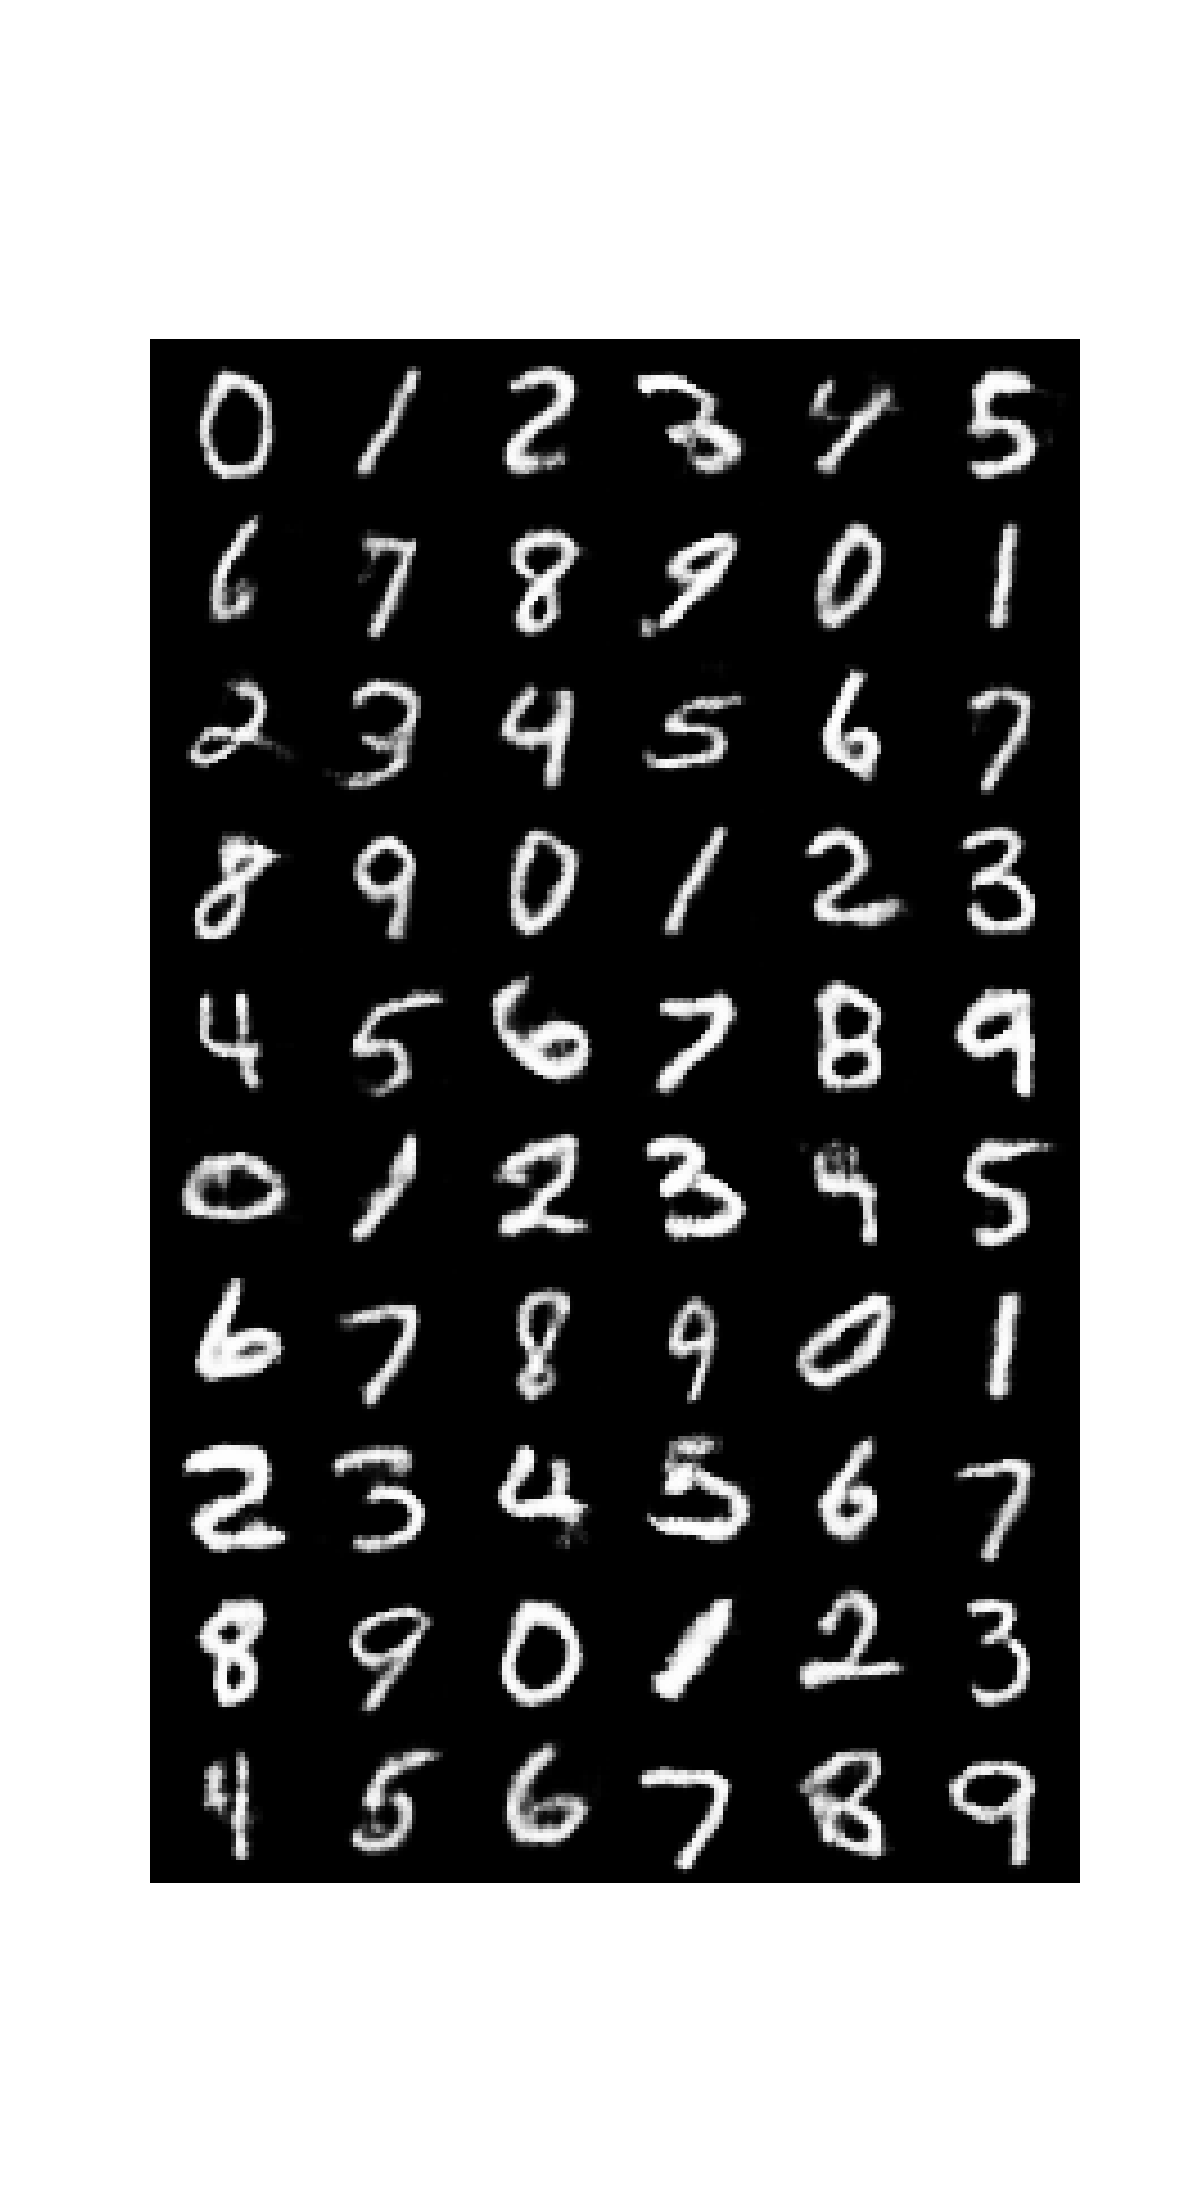
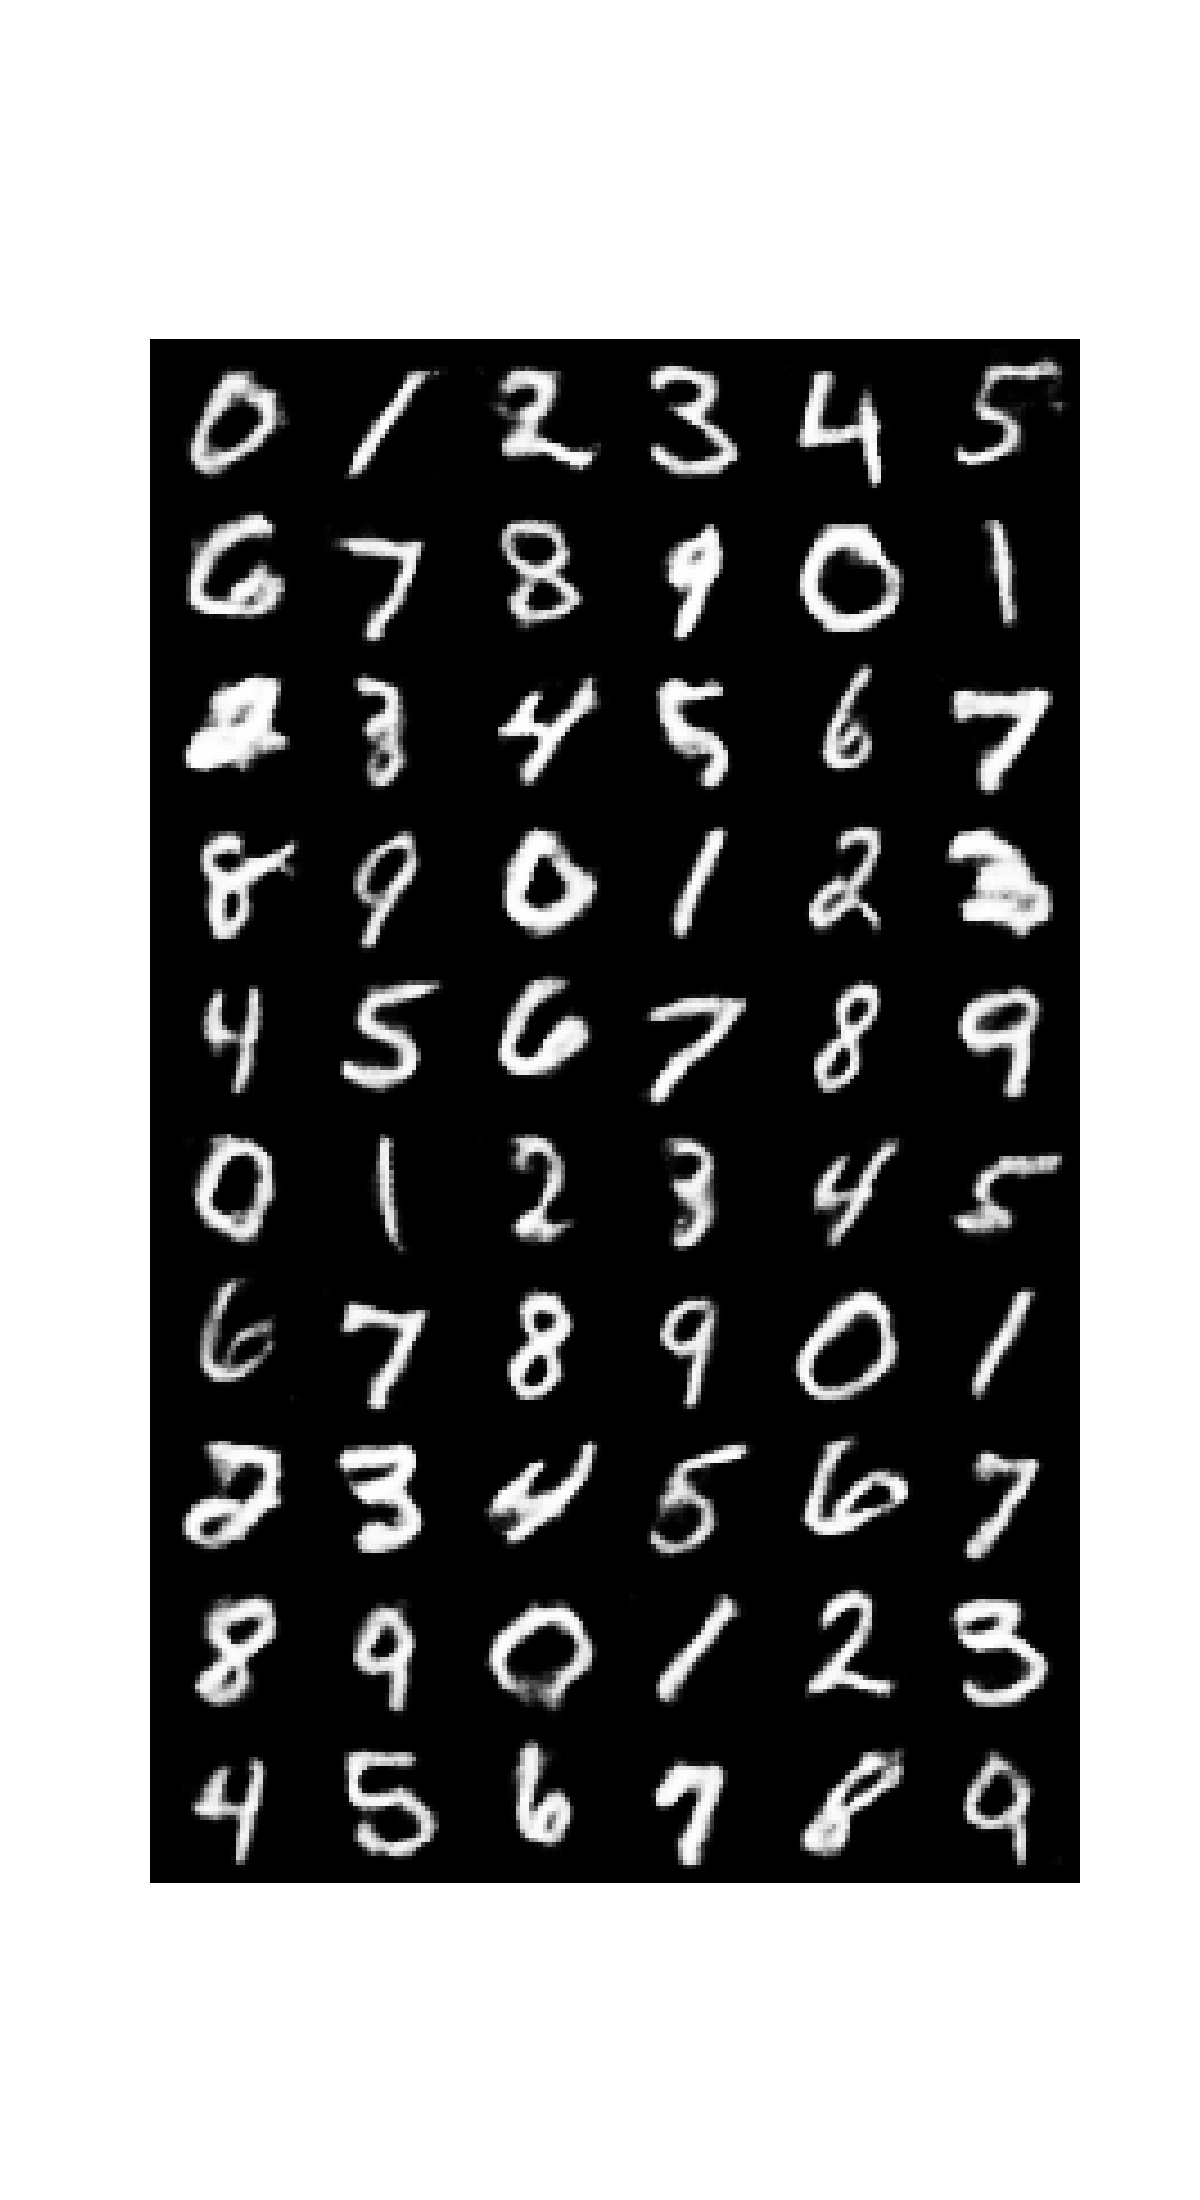
Observers, that saves the losses and epochs so far

diff --git a/training/trainer.py b/training/trainer.py
@@ -1,11 +1,23 @@
+import torch
 from abc import ABC, abstractmethod
 from tqdm.auto import tqdm
+
 from architectures.init_weights import weights_init
-import torch
+from organization.file_system_organizer import FileOrganizer
+from observer.observer_save import ModelSaver
 
 
 class GANTrainer(ABC):
-    def __init__(self, gen, disc, data_loader, loss_fn, optim_gen_strat, optim_disc_strat,latent_dim):
+    def __init__(self, 
+                 gen,
+                 disc, 
+                 data_loader, 
+                 loss_fn, 
+                 optim_gen_strat, 
+                 optim_disc_strat,
+                 latent_dim : int,
+                 save_path : str,
+                 filename : str):
         """Abstract class for Training procedure of gan
 
         Args:
@@ -24,8 +36,15 @@ class GANTrainer(ABC):
         self.optim_gen = optim_gen_strat.build_optim(self.gen)
         self.optim_disc = optim_disc_strat.build_optim(self.disc)
         self.latent_dim = latent_dim
-
+        #where the data is initilized
+        self.save_path = save_path
+        #observers for further functionality
+        self.observers = []
+        #initilaize the model whehter normal distributed or with loading a filename
+        self.filename = filename
+        #filename comes from search from organizer and the filesystem
         self.init_models()
+        self.init_project()
         
     @abstractmethod
     def train_disc(self):
@@ -49,9 +68,17 @@ class GANTrainer(ABC):
         for epoch in tqdm(range(epochs)):
             for batch in self.data_loader:
                 d_loss, g_loss = self.train_step(batch)
-
+            #updating the info dict with each information that is saved from here now 
+            info = {"epoch":epoch,"trainer":self,"loss_d":d_loss,"loss_g":g_loss}
+            self.notify(info)
             print(f"Epoch {epoch}: D={d_loss:.4f} | G={g_loss:.4f}")
         return self.gen, self.disc
+
+    def init_project(self):
+        file = FileOrganizer(filename=self.filename,
+                             path=self.save_path)
+        #creates a full build for a new project
+        file.create_dir()
 
     def init_models(self,**filenames):
         if filenames:
@@ -60,5 +87,17 @@ class GANTrainer(ABC):
         else:
             self.gen.apply(weights_init)
             self.disc.apply(weights_init)
-                
+    
+    def attach(self,observer):
+        #attach the observer to the Trainer 
+        self.observers.append(observer)
+        
+    def detach(self,observer):
+        self.observers.remove(observer)
+        
+    def notify(self, 
+               info: dict):
+        for observer in self.observers:
+            #transfer self because it is the trainer instance
+            observer.update(info)
         

diff --git a/Organization/file_system_organizer.py b/Organization/file_system_organizer.py
@@ -1,6 +1,55 @@
 
+#each prject should become a own project directory
+#fake folder for fake images, that are saved to compute e.g. FID
+#folder with a lot of csv that contains losses metrics # this is done by another class
+#this class ohnly shoult manage the file ordering and not use it.
+#they should check if it is allready existing
+#save regulary images of epochs and losses and validation metrics in csv files
+#that another class that plots can access this data 
+#saving and loading. In case a project allready exists, it should ask, if the project should be loaded
 
+import os
 
 class FileOrganizer():
-    def __init__(self):
-        pass
+    def __init__(self,
+                 filename: str,
+                 path: str):
+        self.filename = filename
+        self.path = path
+    
+    def create_dir(self):
+        """Creates an Directory withhin a given filename and path
+        """
+        path = os.path.join(self.path,self.filename)
+        os.makedirs(path,exist_ok=True)
+        #create the folders in the dir
+        self.create_all_needed_folders(path)
+        self.make_files()
+        
+            
+    
+    def create_all_needed_folders(self,
+                                  path: str):
+        #fake samples contains generated samples for validation
+        #plots contains plots of losses, metrics and other appropiate values to plot
+        # values_csv contains different files that save the values for losses, metrics in csv files for offline plotting
+        #real_samples contains each epoch a batch of generated samples
+        #model
+        folders = ["fake_samples","plots","values_csv","real_samples","models"]
+        for folder in folders:
+            #new path with additional folder
+            new_path = os.path.join(path,folder)
+            #create the folder
+            os.makedirs(new_path,exist_ok=True)
+    
+    def make_files(self):
+        for r,d,f in os.walk(os.path.join(self.path,self.filename)):
+            if d == "values_csv":
+                filename = "metric_values"
+                path = os.path.join(r,filename)
+                with open(path,"w") as f:
+                    pass
+        
+
+                    
+        

diff --git a/main.py b/main.py
@@ -1,3 +1,7 @@
+import os
+
+import torch
+
 from training.vanilla_trainer import VanillaGANTrainer
 from training.dcgan_trainer import DCGANTrainer
 from training.cgan_trainier import ConditionalDCGANTrainer
@@ -10,8 +14,9 @@ from data.mnist import mnist_train, mnist_test
 from data.celebA import celeb_dataset
 from data.wrappers import DataWrapper
 from testing.create_image import LinearGANImageSampler, ConditionalGANImageSampler, ConvGANImageSampler
+from observer.observer_save import ModelSaver
+from observer.observer_plot_values import PlotObserver
 
-import torch
 
 #Vanilla Linear GAN Trainer:
 
@@ -55,15 +60,29 @@ out_shape = 32
 channels = 1
 latent_dim = 100
 num_classes = 10
+save_path = "D:\DeepLearning_Results"
+filename = "test_cgan"
+csv_values = "csv_values"
+
+full_test_path = os.path.join(save_path,filename)
 
 training = ConditionalDCGANTrainer(
+    save_path=save_path,
+    filename=filename,
     gen=ConditonalDCGANGenerator(out_shape=out_shape,out_channels=channels,latent_dim=latent_dim,num_classes=num_classes),
     disc=ConditionalDCGANDiscriminator(out_shape=out_shape,in_channels=channels,num_classes=10),
     data_loader=torch.utils.data.DataLoader(DataWrapper(mnist_train,has_labels=True),batch_size=128,shuffle=True),
     loss_fn=VanillaGANLoss(),
     optim_gen_strat=AdamStrategy(lr=0.0002, betas=(0.5, 0.999)),
     optim_disc_strat=AdamStrategy(lr=0.0002, betas=(0.5, 0.999)),
-    latent_dim=100)
+    latent_dim=100,
+    
+)
+
+training.attach(ModelSaver(save_path=full_test_path))
+training.attach(PlotObserver(full_test_path,filename=csv_values))
+# training.attach(SampleLogger(sample_path="./samples"))
+
 
 gen, disc = training.train(10)
 

diff --git a/observer/observer_plot_values.py b/observer/observer_plot_values.py
@@ -1,0 +1,37 @@
+import os
+import pandas as pd
+
+from .observer import Observer
+
+
+# observer for loss values and plotting prepare it for metrics
+#plotting class visulizer
+
+
+class PlotObserver(Observer):
+    def __init__(self,
+                 path : str,
+                 filename : str):
+        #path goes until filename including
+        self.path = os.path.join(path,"values_csv")
+        self.filename = filename +".csv" if not filename.endswith(".csv") else filename
+        #this contains previous data 
+        self.all_data = self.real_previous_data()
+    
+    def real_previous_data(self):
+        #if a instance of this training was done before the existing data frame with infos about training is loaded 
+        if os.path.exists(os.path.join(self.path,self.filename,".csv")):
+            return pd.read_csv(self.path)
+        else:
+            #return an empty data frame 
+            return pd.DataFrame()
+    
+    def update(self, info):
+        valid_keys = ["epoch", "loss_g", "loss_d", "fid"]
+
+        filtered = {k: v for k, v in info.items() if k in valid_keys}
+
+        new_data = pd.DataFrame([filtered])
+        self.all_data = pd.concat([self.all_data, new_data], ignore_index=True)
+        self.all_data.to_csv(os.path.join(self.path,self.filename), index=False)
+        

diff --git a/observer/observer_save.py b/observer/observer_save.py
@@ -1,0 +1,22 @@
+
+import os
+
+import torch
+
+from .observer import Observer
+
+
+#should save models each epoch generator and discriminator
+class ModelSaver(Observer):
+    def __init__(self,save_path):
+        self.save_path = save_path
+    
+    def update(self,info):
+        valid_keys = ["trainer","epoch","metric"]
+        epoch = info["epoch"]
+        filename = f"epoch_{epoch}.pkl"
+        #save torch models
+        torch.save(info["trainer"].gen.state_dict(),os.path.join(self.save_path,"models","Generator_" +filename))
+        torch.save(info["trainer"].disc.state_dict(),os.path.join(self.save_path,"models","Discriminator_"+filename))
+        #information log
+        print(f"Generator and Discriminator saved in {self.save_path}")

diff --git a/training/cgan_trainier.py b/training/cgan_trainier.py
@@ -3,8 +3,8 @@ import torch
 # from testing.create_image import ConditionalGANImageSampler
 
 class ConditionalDCGANTrainer(GANTrainer):
-    def __init__(self, gen, disc, data_loader, loss_fn, optim_gen_strat, optim_disc_strat, latent_dim,device="cuda"):
-        super().__init__(gen, disc, data_loader, loss_fn, optim_gen_strat, optim_disc_strat,latent_dim)
+    def __init__(self, gen, disc, data_loader, loss_fn, optim_gen_strat, optim_disc_strat, latent_dim,save_path,filename,device="cuda"):
+        super().__init__(gen, disc, data_loader, loss_fn, optim_gen_strat, optim_disc_strat,latent_dim,save_path=save_path,filename=filename)
         self.latent_dim = latent_dim
         self.device = device
         self.verbose = False #default False

diff --git a/observer/observer.py b/observer/observer.py
@@ -1,0 +1,8 @@
+from abc import ABC,abstractmethod
+
+#abstract class for the observer that is responsible for the logging, saving,....
+class Observer(ABC):
+    @abstractmethod
+    def update(self,info):
+        pass
+    
